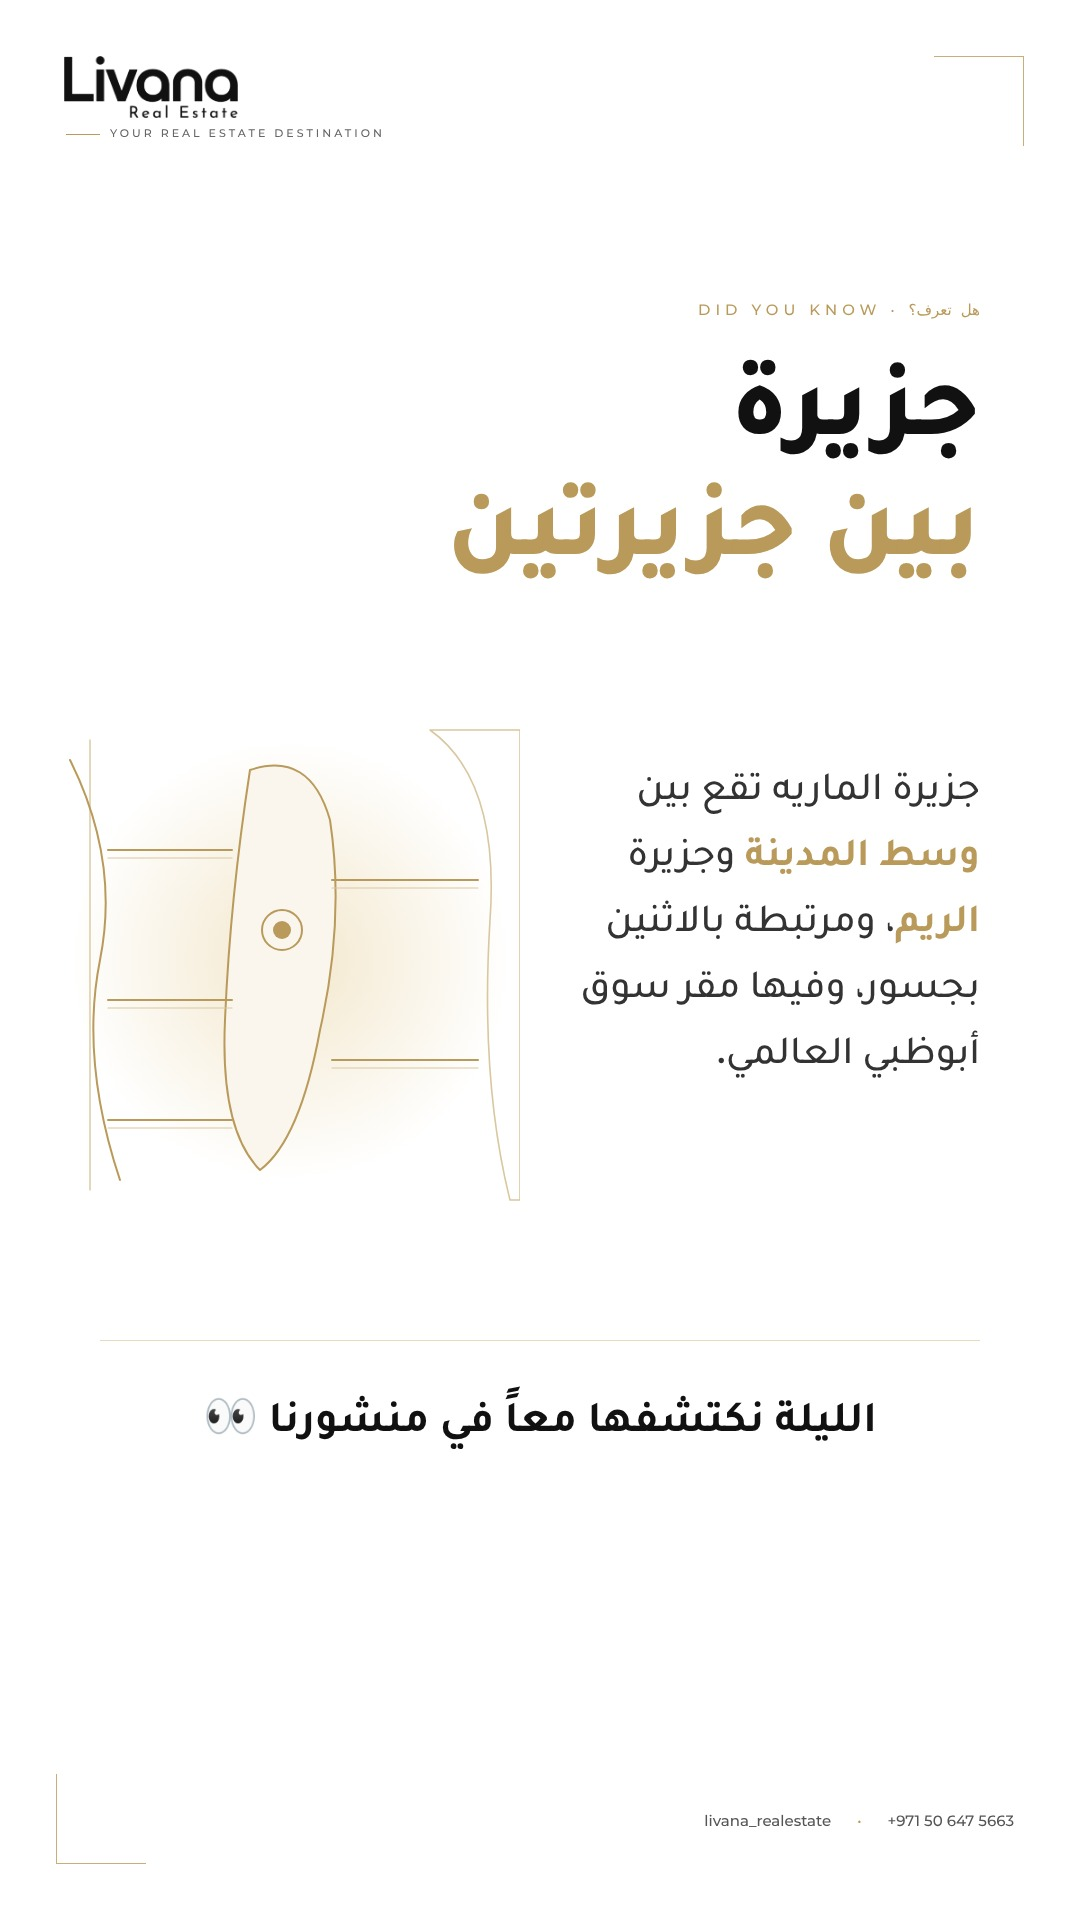
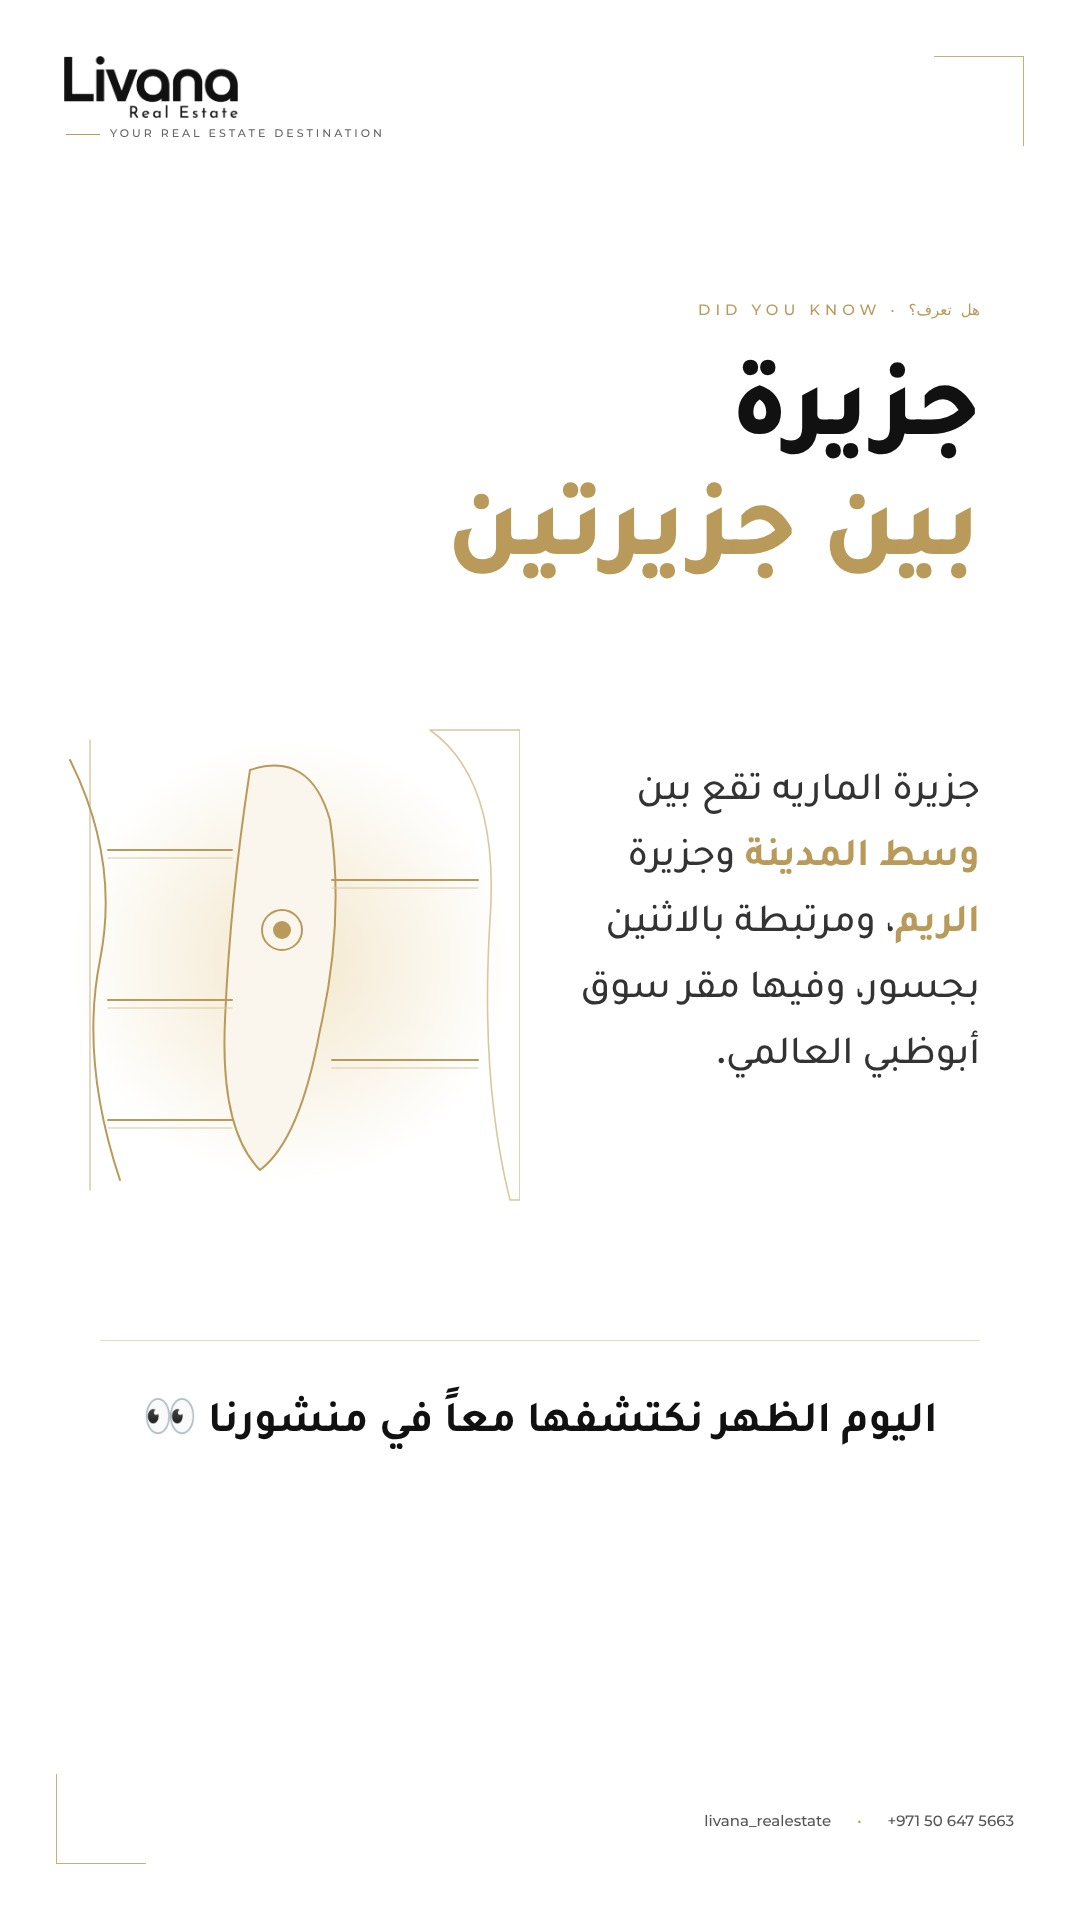
Livana 2026-11-23: fix story 2 timing text
Claude-Session: https://claude.ai/code/session_01YSkhsqTdTTvzy8ht4o9GSz

Changed region(s): [[0.1222, 0.7188, 0.8556, 0.75]]

diff --git a/livana/_system/d1123.py b/livana/_system/d1123.py
@@ -127,7 +127,7 @@ page('s2.html','''
 <div class="abs map">'''+island_map(460,520)+'''</div>
 <div class="abs big a">جزيرة الماريه تقع بين <b>وسط المدينة</b> وجزيرة <b>الريم</b>، ومرتبطة بالاثنين بجسور، وفيها مقر سوق أبوظبي العالمي.</div>
 <div class="abs bar"></div>
-<div class="abs q a">الليلة نكتشفها معاً في منشورنا 👀</div>''',story=True)
+<div class="abs q a">اليوم الظهر نكتشفها معاً في منشورنا 👀</div>''',story=True)
 
 # S3 teaser post 1 — phone frame
 page('s3.html','''
